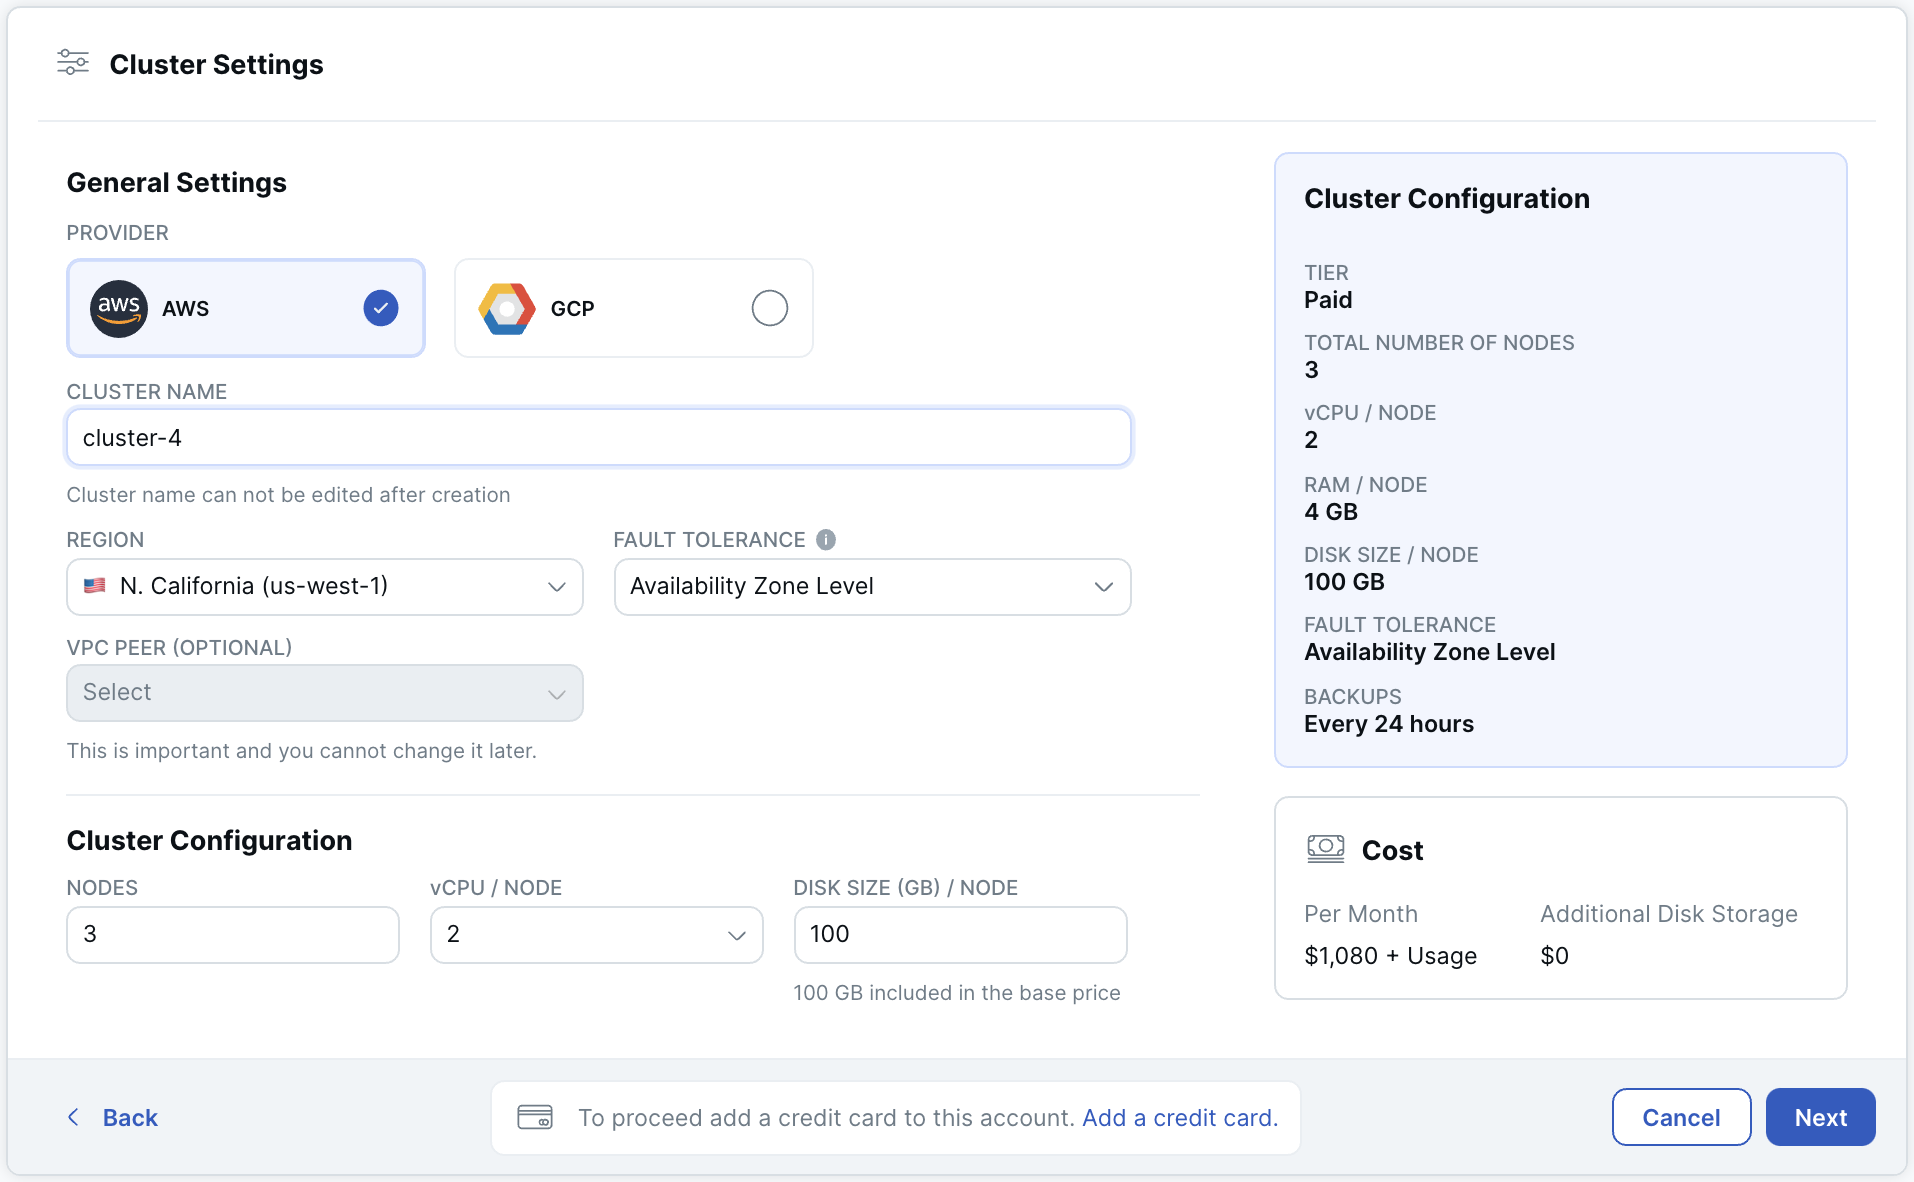
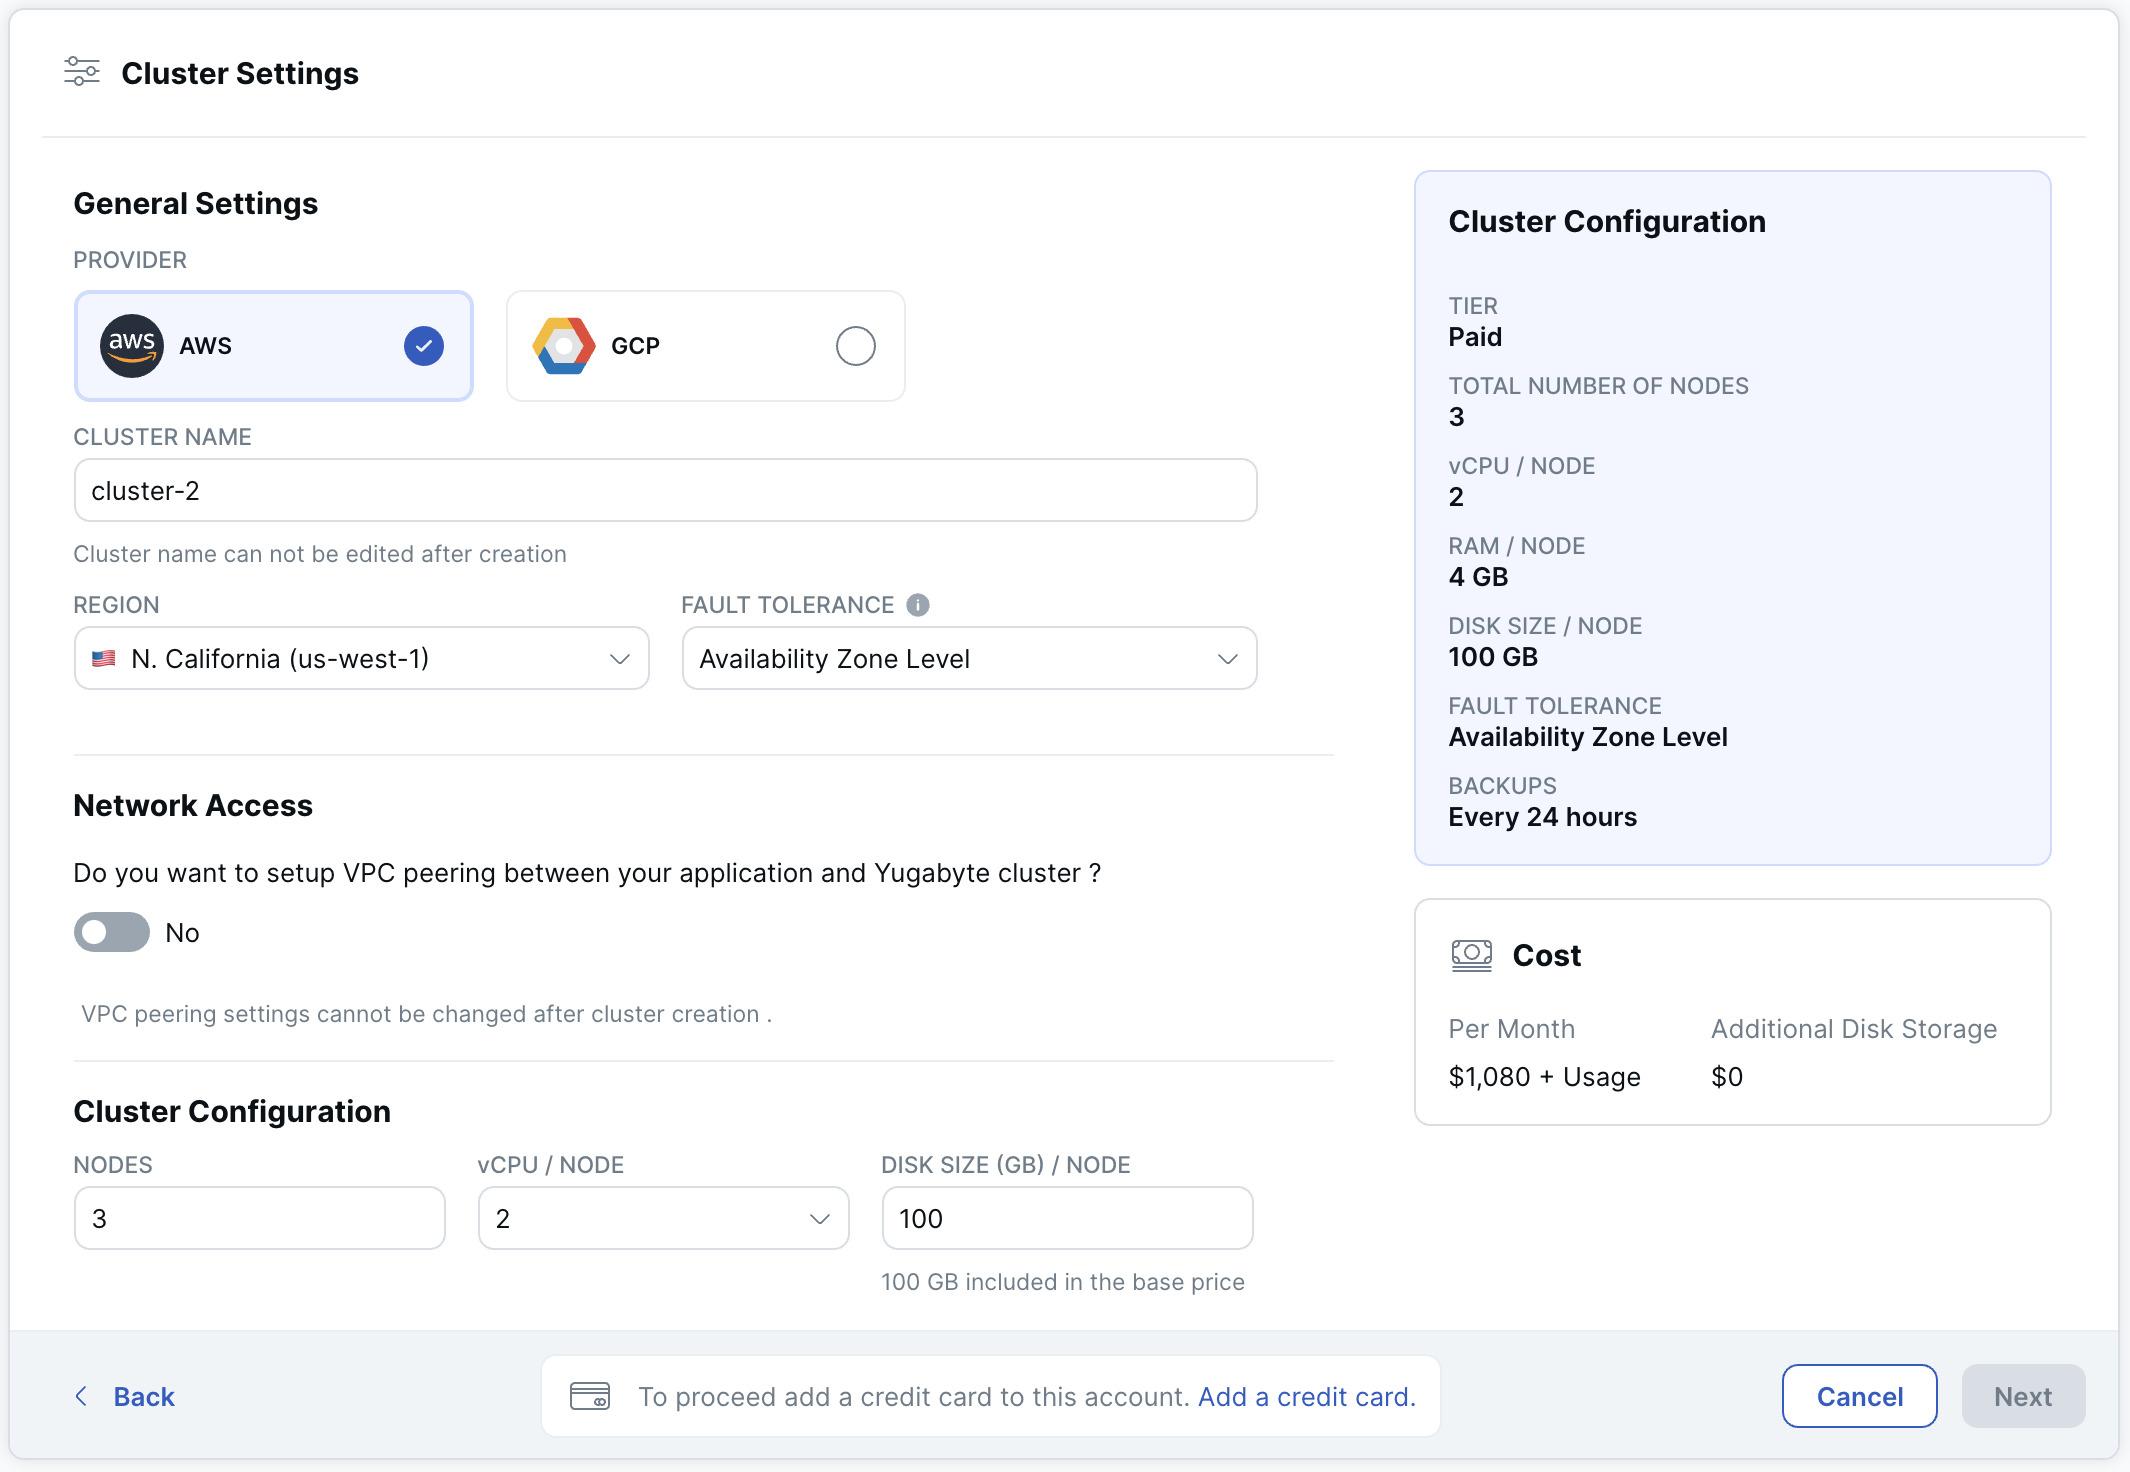
[docs] cloud update (#10201)
* cloud updates Oct 6

* edits

* move topic

* incorporate comments

* Review comments

diff --git a/docs/content/latest/quick-start/build-apps/_index.html b/docs/content/latest/quick-start/build-apps/_index.html
@@ -16,7 +16,7 @@ menu:
     weight: 150
 ---
 
-<p>Applications connect to and interact with YugabyteDB using API client libraries, also known as a client drivers. Here is a list, by programming language, of tutorials for building sample applications using available drivers and ORMs. Because YugabyteDB YSQL API is PostgreSQL-compatible and YCQL API has roots in the Apache Cassandra CQL, many of the tutorials use third-party drivers.</p>
+<p>Applications connect to and interact with YugabyteDB using API client libraries, also called client drivers. Here is a list, by programming language, of tutorials for building sample applications using available drivers and ORMs. Because the YugabyteDB YSQL API is PostgreSQL-compatible and the YCQL API has roots in the Apache Cassandra CQL, many of the tutorials use third-party drivers.</p>
 
 <p>For details about supported API client drivers (by programming language), see <a href="../../reference/drivers">Drivers</a>.</p>
 

diff --git a/docs/content/latest/integrations/_index.html b/docs/content/latest/integrations/_index.html
@@ -97,7 +97,7 @@ menu:
   </div>
 
    <div class="col-12 col-md-6 col-lg-12 col-xl-6">
-     <a class="section-link icon-offset" href="spring/">
+     <a class="section-link icon-offset" href="spring-framework/">
       <div class="head">
         <img class="icon" src="/images/section_icons/develop/ecosystem/spring.png" aria-hidden="true" />      
       <div class="title">Spring Framework</div>

diff --git a/docs/content/latest/yugabyte-cloud/cloud-faq.md b/docs/content/latest/yugabyte-cloud/cloud-faq.md
@@ -35,12 +35,6 @@ Yugabyte bills for its services as follows:
 
 For information on Yugabyte Cloud pricing, refer to the [Yugabyte Cloud Standard Price List](https://www.yugabyte.com/yugabyte-cloud-standard-price-list/). For a description of how cluster configurations are costed, refer to [Cluster costs](../cloud-admin/cloud-billing-costs).
 
-<!--
-### Is support included in the base price?
-
-### What SLAs are guaranteed for support and service?
--->
-
 ### What are the differences between Free and Paid clusters?
 
 Use the **Free** cluster to get started with YugabyteDB. The free cluster is limited to a single node, and although not suitable for production workloads, the cluster includes enough resources to start exploring the core features available for developing applications with YugabyteDB. You can only have one Free cluster.
@@ -71,38 +65,25 @@ Refer to [Cloud provider regions](../release-notes#cloud-provider-regions) for a
 
 Yugabyte Cloud supports all the regions that have robust infrastructure and sufficient demand from customers. Regions where load balancers, certain VMs, or other resources are harder to obtain have not yet been added. We are continuously improving region coverage, so if there are any regions you would like us to support, reach out to [Yugabyte Support](https://support.yugabyte.com/hc/en-us/requests/new?ticket_form_id=360003113431).
 
-### How do I connect to my cluster?
+## Support
 
-You can connect to clusters in the following ways:
+### Is support included in the base price?
 
-Cloud Shell
-: Run the [ysqlsh](../../admin/ysqlsh) or [ycqlsh](../../admin/ycqlsh) shell from your browser to connect to and interact with your YugabyteDB database. Cloud shell does not require a CA certificate or any special network access configured.
+Enterprise Support is included in the base price for paid clusters. Refer to the [Yugabyte Cloud Support Services Terms and Conditions](https://www.yugabyte.com/yugabyte-cloud-support-services-terms-and-conditions/).
 
-Client Shell
-: Connect to your YugabyteDB cluster using the YugabyteDB [ysqlsh](../../admin/ysqlsh) and [ycqlsh](../../admin/ycqlsh) client shells installed on your computer.
+Free and paid cluster customers can also use the [YugabyteDB Slack community](https://yugabyte-db.slack.com/).
 
-: Before you can connect using a client shell, you need to have an IP allow list or VPC peer set up. Refer to [Assign IP Allow Lists](../cloud-basics/add-connections/).
+### Where can I find the support policy and Service Level Agreement (SLA) for Yugabyte Cloud?
 
-: You must be running the latest versions of the client shells. These are available in Yugabyte Client 2.6 or later, which you can download using the following command on Linux or macOS:
+The Yugabyte Cloud SLA, terms of service, acceptable use policy, and more can be found on the [Yugabyte Legal](https://www.yugabyte.com/legal/) page.
 
-    ```sh
-    $ curl -sSL https://downloads.yugabyte.com/get_clients.sh | bash
-    ```
+### How do I check the status of Yugabyte Cloud?
 
-: Windows client shells require Docker:
+The [Yugabyte Cloud Status](https://status.yugabyte.cloud/) page displays the current uptime status of Yugabyte Cloud and the [Yugabyte Support Portal](https://support.yugabyte.com/).
 
-    ```sh
-    docker run -it yugabytedb/yugabyte-client ysqlsh -h <hostname> -p <port>
-    ```
+The status page also provides notices of scheduled maintenace and current and past incidents.
 
-: Please check [cloud.yugabyte.com](https://cloud.yugabyte.com/) to see the latest version.
-
-Applications
-: Applications connect to and interact with YugabyteDB using API client libraries, also known as a client drivers. Before you can connect a application, you will need to install the correct driver. Clusters have SSL (encryption in-transit) enabled so make sure your driver details include SSL parameters. For information on available drivers, refer to [Build an application](../../quick-start/build-apps). 
-
-: Before you can connect, your application has to be able to reach your Yugabyte Cloud. To add inbound network access from your application environment to Yugabyte Cloud, add the public IP addresses to the [cluster IP access list](../cloud-basics/add-connections), or use [VPC peering](../cloud-network/vpc-peers) to add private IP addresses.
-
-For more details, refer to [Connect to clusters](../cloud-basics/connect-to-clusters). 
+Subscribe to the status page by clicking **Subscribe to Updates**. Email notifications are sent when incidents are created, updated, and resolved.
 
 ## Security
 
@@ -138,9 +119,38 @@ Upgrades are automatically handled by Yugabyte. There are two types of upgrades:
 
 - Cluster (yugabyteDB) version upgrade - To keep up with the latest bug fixes, improvements, and security fixes, Yugabyte will upgrade your cluster to the latest version. We will notify customers of any upcoming upgrade schedule via email and Slack. All database upgrades are done on a rolling basis to avoid any downtime. 
 
-<!--
-### How do I migrate my database to Yugabyte Cloud
--->
+### How do I connect to my cluster?
+
+You can connect to clusters in the following ways:
+
+Cloud Shell
+: Run the [ysqlsh](../../admin/ysqlsh) or [ycqlsh](../../admin/ycqlsh) shell from your browser to connect to and interact with your YugabyteDB database. Cloud shell does not require a CA certificate or any special network access configured.
+
+Client Shell
+: Connect to your YugabyteDB cluster using the YugabyteDB [ysqlsh](../../admin/ysqlsh) and [ycqlsh](../../admin/ycqlsh) client shells installed on your computer.
+
+: Before you can connect using a client shell, you need to have an IP allow list or VPC peer set up. Refer to [Assign IP Allow Lists](../cloud-basics/add-connections/).
+
+: You must be running the latest versions of the client shells. These are available in Yugabyte Client 2.6 or later, which you can download using the following command on Linux or macOS:
+
+    ```sh
+    $ curl -sSL https://downloads.yugabyte.com/get_clients.sh | bash
+    ```
+
+: Windows client shells require Docker:
+
+    ```sh
+    docker run -it yugabytedb/yugabyte-client ysqlsh -h <hostname> -p <port>
+    ```
+
+: Please check [cloud.yugabyte.com](https://cloud.yugabyte.com/) to see the latest version.
+
+Applications
+: Applications connect to and interact with YugabyteDB using API client libraries, also called client drivers. Before you can connect an application, you need to install the correct driver. Clusters have SSL (encryption in-transit) enabled so make sure your driver details include SSL parameters. For information on available drivers, refer to [Build an application](../../quick-start/build-apps).
+
+: Before you can connect, your application has to be able to reach your Yugabyte Cloud. To add inbound network access from your application environment to Yugabyte Cloud, add the public IP addresses to the [cluster IP access list](../cloud-basics/add-connections), or use [VPC peering](../cloud-network/vpc-peers) to add private IP addresses.
+
+For more details, refer to [Connect to clusters](../cloud-basics/connect-to-clusters). 
 
 ## Backups
 

diff --git a/docs/content/latest/yugabyte-cloud/cloud-basics/create-clusters.md b/docs/content/latest/yugabyte-cloud/cloud-basics/create-clusters.md
@@ -76,7 +76,7 @@ If you are creating a **Paid** cluster, set the following additional options:
   - **Node Level** - a minimum of 3 nodes deployed in a single availability zone with a [replication factor](../../../architecture/docdb-replication/replication/) (RF) of 3. YugabyteDB can continue to do reads and writes even in case of a node failure, but this configuration is not resilient to cloud availability zone outages. For horizontal scaling, you can scale nodes in increments of 1.
   - **Availability Zone Level** - a minimum of 3 nodes spread across multiple availability zones with a RF of 3. YugabyteDB can continue to do reads and writes even in case of a cloud availability zone failure. This configuration provides the maximum protection for a data center failure. Recommended for production deployments. For horizontal scaling, nodes are scaled in increments of 3.
 
-- **VPC Peer**: If you want to use dedicated VPCs for network isolation and security, contact Yugabyte Support to set up VPC Peering with your client VPC. Note this has to be done before you create your cluster.
+- **Network Access**: If you want to use dedicated VPCs for network isolation and security, contact Yugabyte Support to set up [VPC Peering](../../cloud-network/vpc-peers) with your client VPC. Note this has to be done before you create your cluster.
 
 - **Cluster Configuration**:
 
@@ -84,7 +84,9 @@ If you are creating a **Paid** cluster, set the following additional options:
   - vCPU/Node - enter the number of virtual CPUs per node.
   - Disk size/Node - enter the disk size per node in GB.
 
-  Paid clusters support both horizontal and vertical scaling; you can change the cluster configuration after the cluster is created using the **Edit Configuration** settings. Refer to [Configure clusters](../../cloud-clusters/configure-clusters#infrastructure). For cluster configuration costs, refer to [Cluster costs](../cloud-admin/cloud-billing-costs/).
+The cluster costs are estimated automatically under **Cost**. For information on how clusters are costed, refer to [Cluster costs](../cloud-admin/cloud-billing-costs/). 
+
+Paid clusters support both horizontal and vertical scaling; you can change the cluster configuration after the cluster is created using the **Edit Configuration** settings. Refer to [Configure clusters](../../cloud-clusters/configure-clusters#infrastructure). 
 
 ### Database Admin Credentials
 

diff --git a/docs/content/latest/yugabyte-cloud/cloud-basics/connect-to-clusters.md b/docs/content/latest/yugabyte-cloud/cloud-basics/connect-to-clusters.md
@@ -51,19 +51,7 @@ To connect to a cluster via Cloud Shell:
 
 1. Select the API to use (YSQL or YCQL) and click **Confirm**.
 
-    The shell is displayed in a separate browser page (`ysqlsh` output, followed by `ycqlsh`).
-
-    ```output
-    Password for user admin: 
-    ```
-
-    ```output
-    Warning: Cannot create directory at `/home/shell/.cassandra`. Command history will not be saved.
-
-    Password: 
-    ```
-
-    Cloud shell can take up to 30 seconds to be ready.
+    The shell is displayed in a separate browser page. Cloud shell can take up to 30 seconds to be ready.
 
 1. Enter the password for the user you specified.
 
@@ -130,7 +118,7 @@ You are now ready to [Create and explore a database](../create-databases/).
 
 ## Connect an application
 
-Applications connect to and interact with YugabyteDB using API client libraries, also known as client drivers. Before you can connect an application, you need to install the correct driver. For information on available drivers, refer to [Build an application](../../../quick-start/build-apps).
+Applications connect to and interact with YugabyteDB using API client libraries, also called client drivers. Before you can connect an application, you need to install the correct driver. For information on available drivers, refer to [Build an application](../../../quick-start/build-apps).
 
 For examples of connecting applications to Yugabyte Cloud, refer to [Tutorials and examples](../../cloud-develop/).
 

diff --git a/docs/content/latest/yugabyte-cloud/release-notes.md b/docs/content/latest/yugabyte-cloud/release-notes.md
@@ -15,12 +15,19 @@ showAsideToc: true
 
 ## Releases
 
+### October 5, 2021
+
+#### New features
+
+- The [Yugabyte Cloud Status](https://status.yugabyte.cloud/) page shows the current uptime status of Yugabyte Cloud and the [Yugabyte Support Portal](https://support.yugabyte.com/), along with maintenance notices and incident reports.
+- Review cluster activity on the [Activity](../cloud-clusters/monitor-activity) tab.
+
 ### September 15, 2021
 
 #### New features
 
-- Paid clusters (unlimited)
-- Invoicing
+- You can now [create Paid clusters](../cloud-basics/create-clusters). Paid clusters are suitable for production workloads, and support horizontal and vertical scaling, VPC peering, and scheduled and manual backups.
+- Set up a billing profile and payment methods and review invoices on the [Billing](../cloud-admin/cloud-billing-profile) tab.
 
 ### September 8, 2021
 
